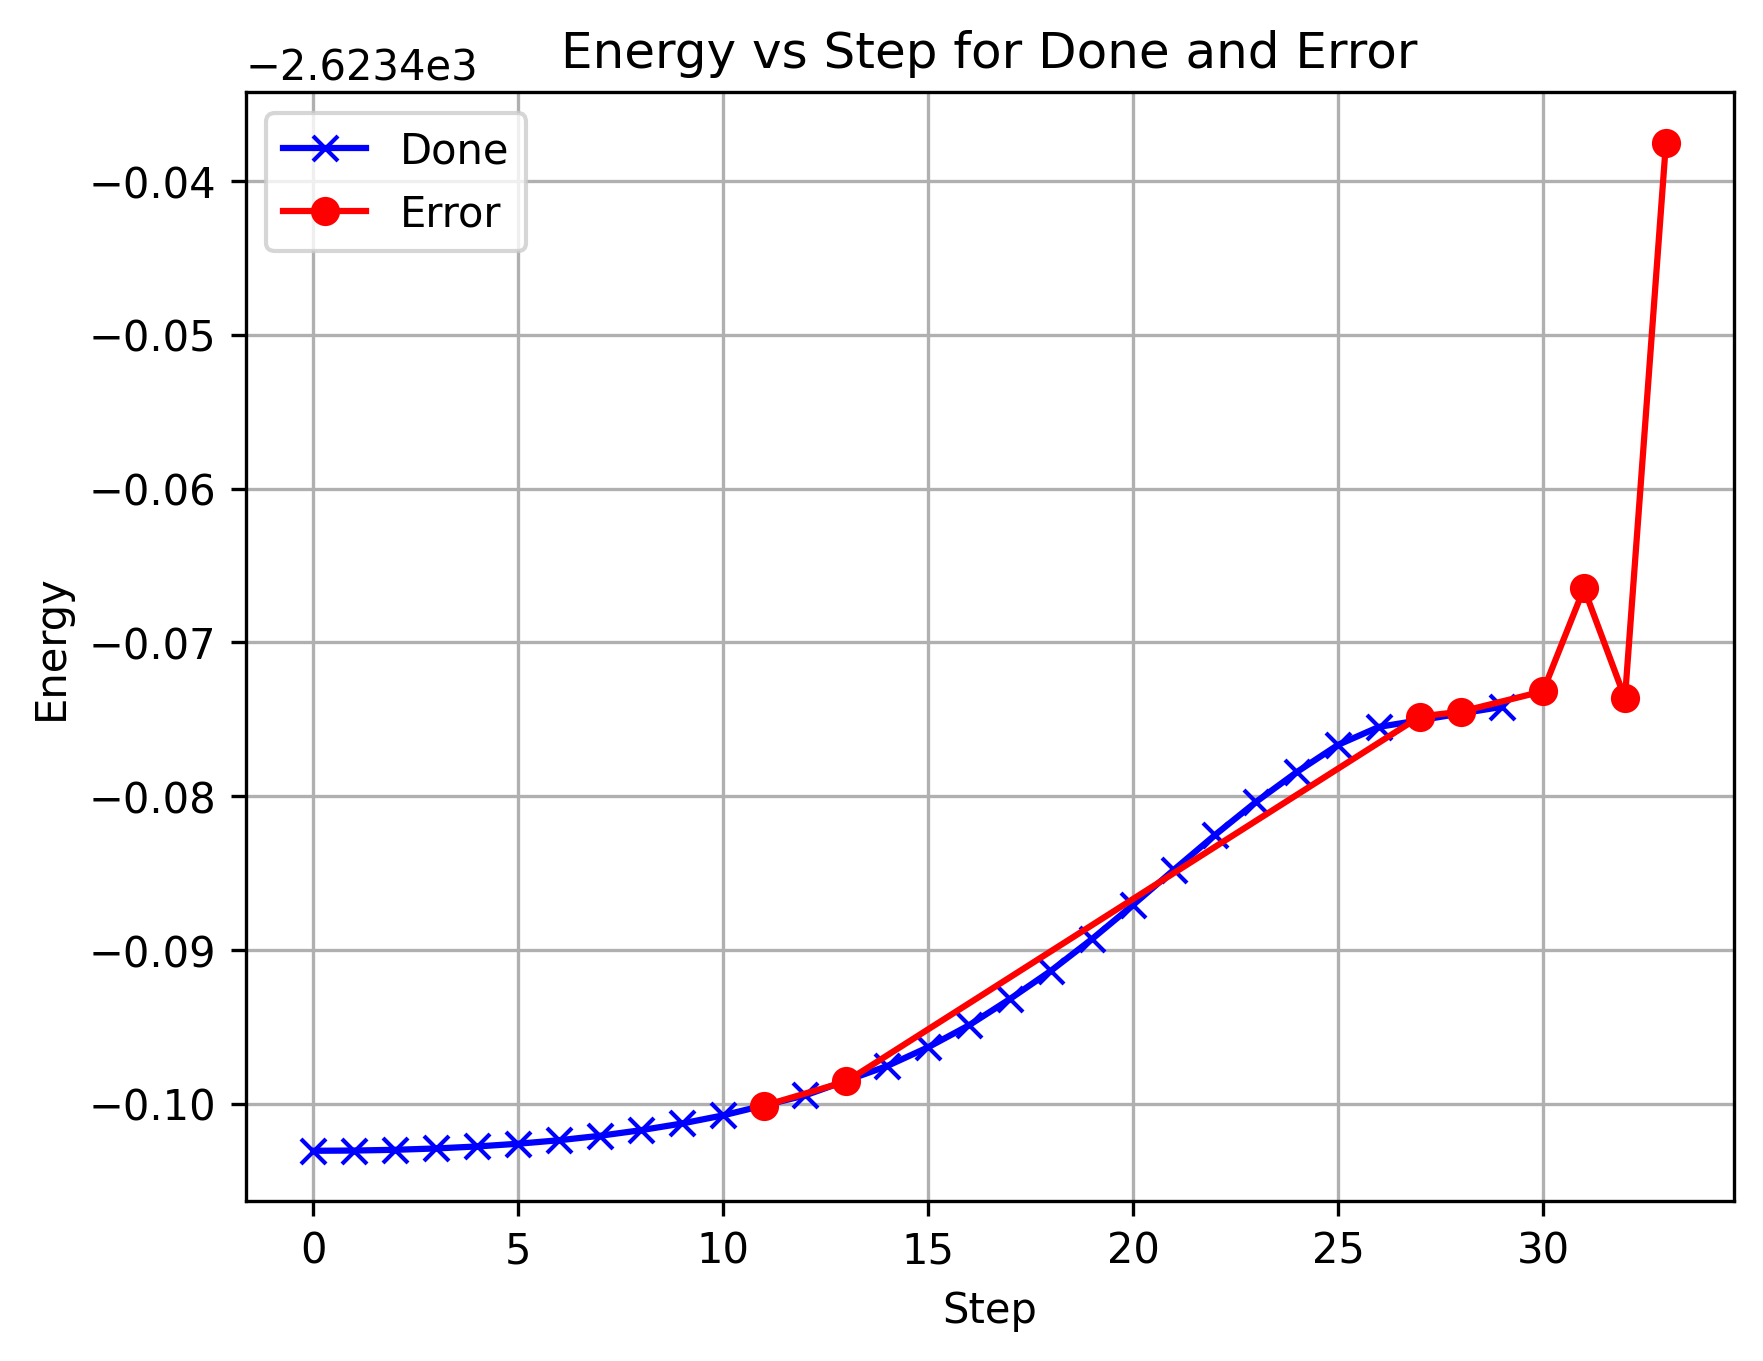
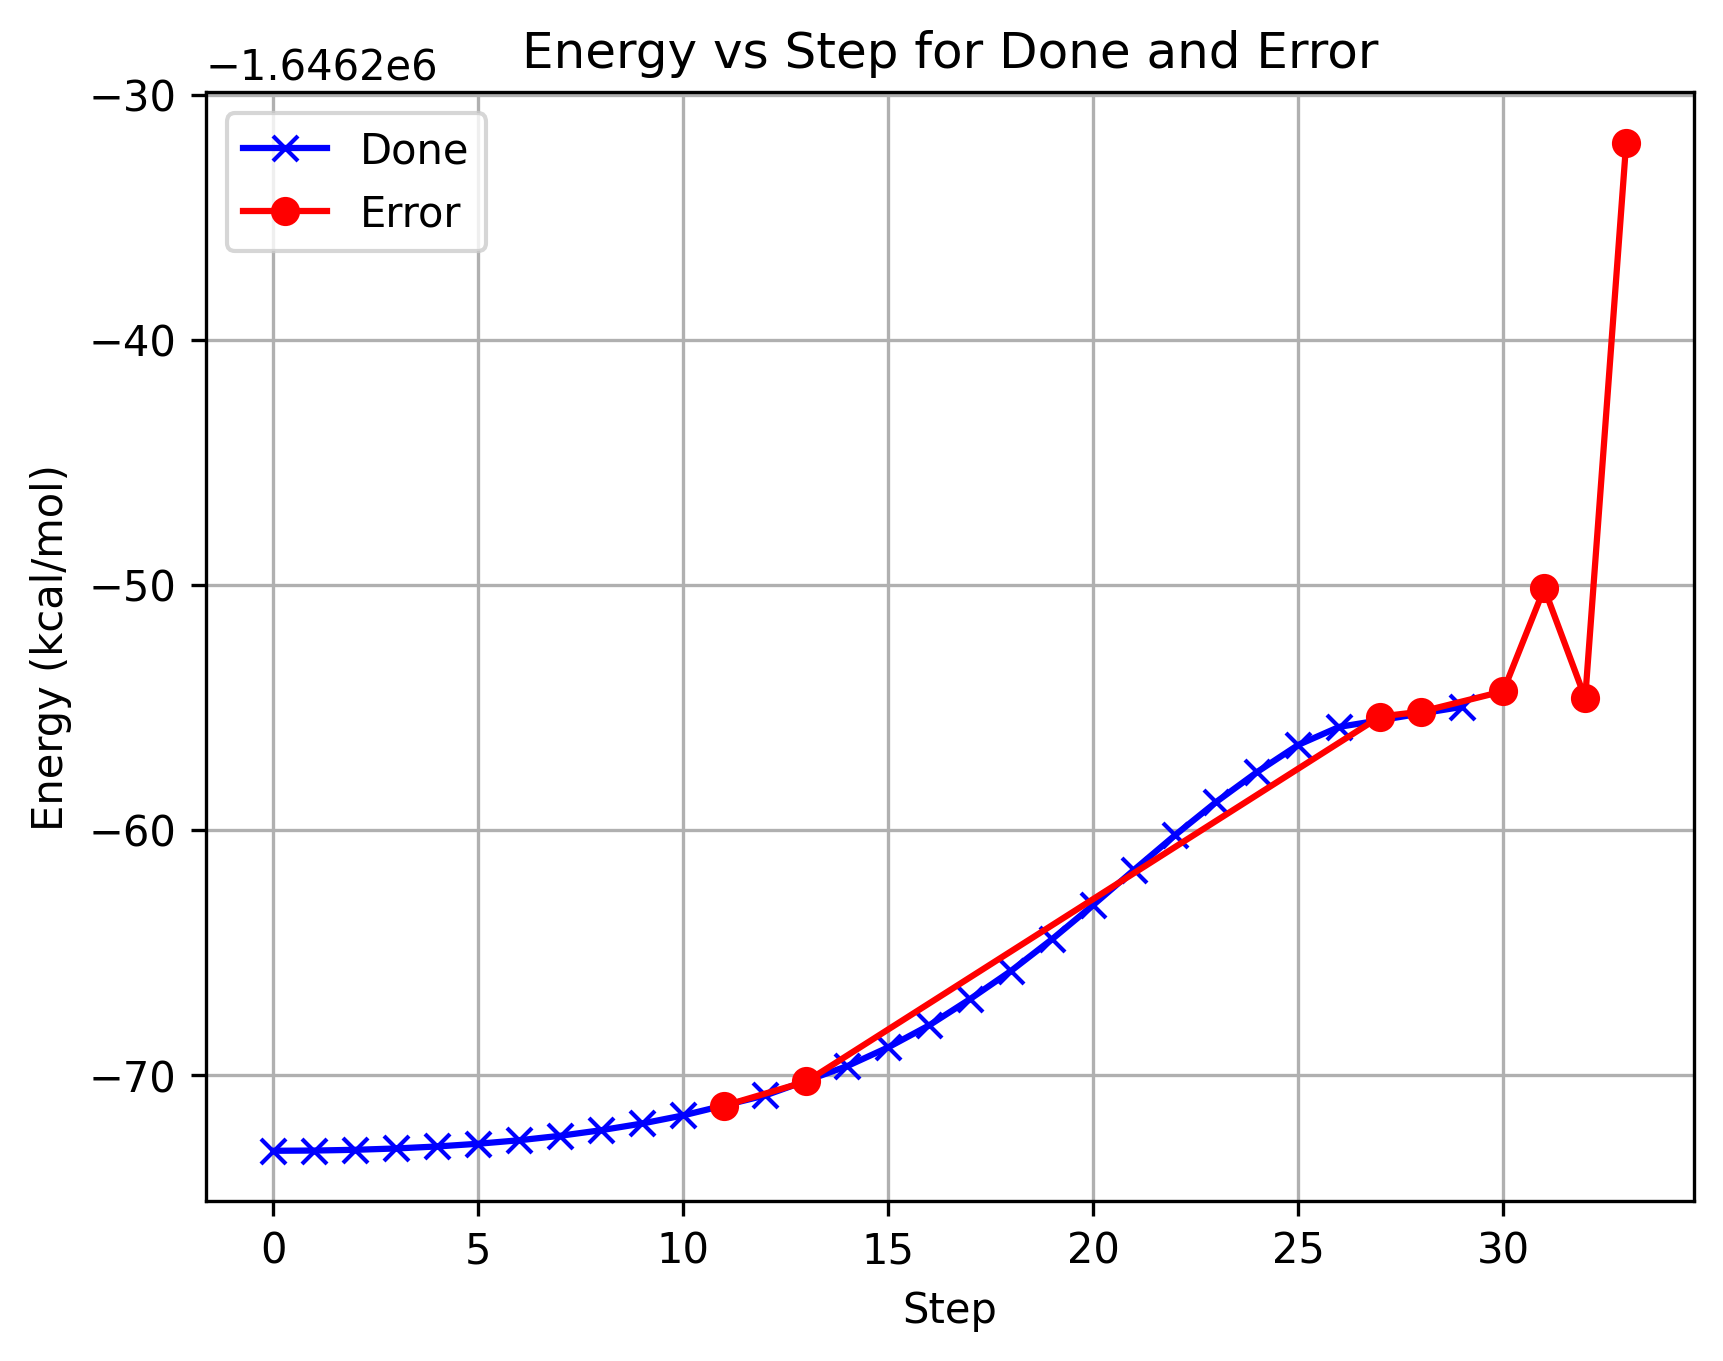
aggiunta di kcal

diff --git a/src/models/post_processing.py b/src/models/post_processing.py
@@ -19,11 +19,14 @@ df_error_clean.columns = ['step', 'energy']
 
 df_done_clean = df_done_clean.sort_values(by='step', ascending=True )
 df_error_clean = df_error_clean.sort_values(by='step', ascending=True )
+
+df_done_clean['energy in kcal'] = df_done_clean['energy'] * 627.5095
+df_error_clean['energy in kcal'] = df_error_clean['energy'] * 627.5095
 #print(df_done_clean.head(35))
-plt.plot(df_done_clean['step'], df_done_clean['energy'],marker='x', linestyle='-', label='Done', color='blue') 
-plt.plot(df_error_clean['step'], df_error_clean['energy'],marker='o', linestyle='-', label='Error', color='red')
+plt.plot(df_done_clean['step'], df_done_clean['energy in kcal'],marker='x', linestyle='-', label='Done', color='blue') 
+plt.plot(df_error_clean['step'], df_error_clean['energy in kcal'],marker='o', linestyle='-', label='Error', color='red')
 plt.xlabel('Step')
-plt.ylabel('Energy')
+plt.ylabel('Energy (kcal/mol)')
 plt.title('Energy vs Step for Done and Error')
 plt.grid()
 plt.legend()
